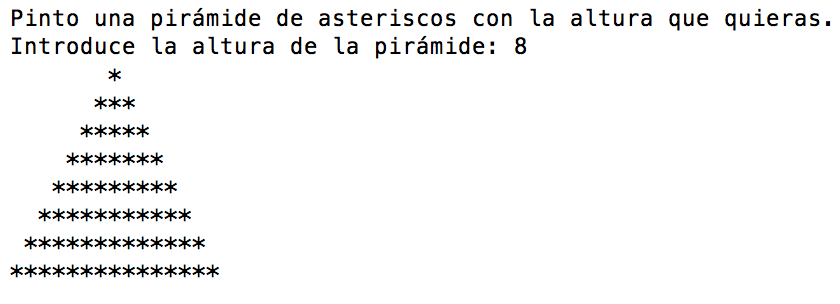
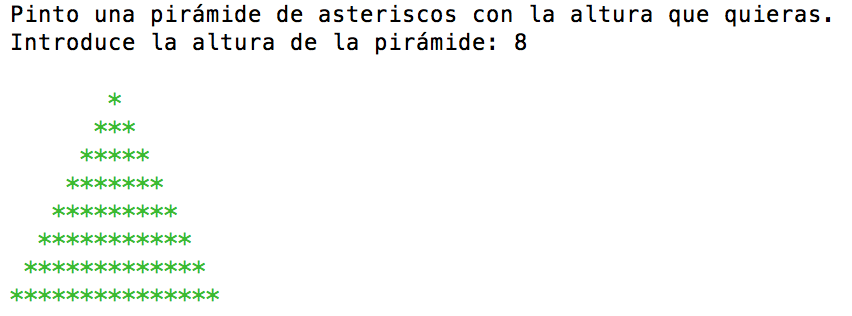
Editados los ejercicios y las imagenes

diff --git a/Ejercicio2.rb b/Ejercicio2.rb
@@ -7,11 +7,17 @@
   
 =end
 
+class String
+  def green; "\e[32m#{self}\e[0m" end
+end
+
 puts "\nPinto una pirámide de asteriscos con la altura que quieras."
 print "Introduce la altura de la pirámide: "
 $h = Integer(gets)
 $altura = 1
 $espacios = ($h - 1)
+
+puts
 
 while $altura <= $h do
   
@@ -27,7 +33,7 @@ while $altura <= $h do
   
   $j = 1
   while $j < $altura * 2
-    print "*"
+    print "*".green
     $j +=1
   end
   

diff --git a/Ejercicio1.rb b/Ejercicio1.rb
@@ -8,6 +8,7 @@
 
 class String
   def bold; "\e[1m#{self}\e[22m" end
+  def blue; "\e[34m#{self}\e[0m" end
 end
 
-print "¡Hola Mundo!".bold
+print "\n¡Hola Mundo!".bold.blue
